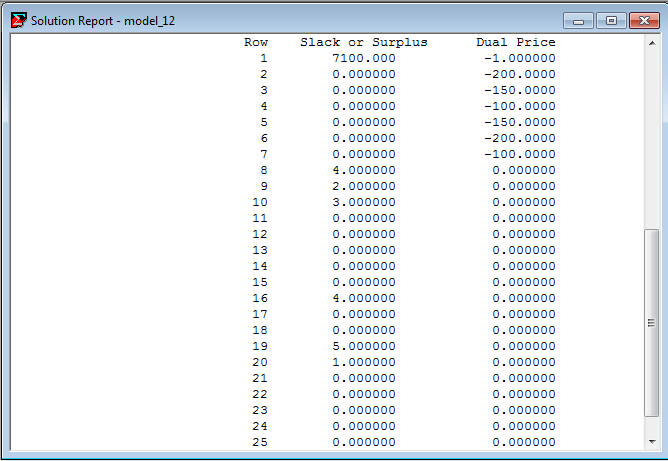
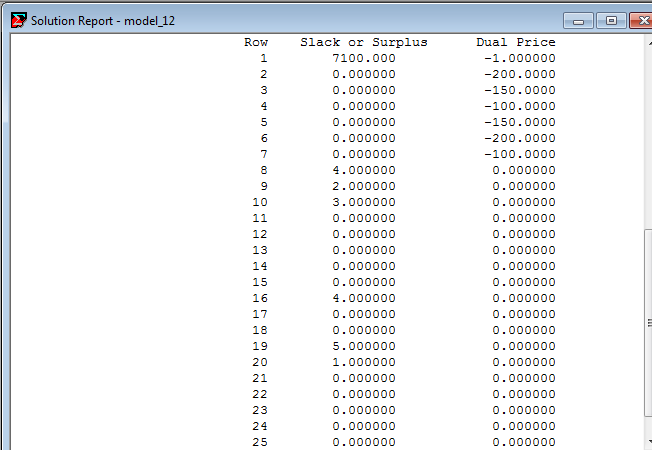
Screenshot_d ex 12 re-sized.

Changed region(s): [[0.0, 0.0, 1.0, 1.0]]

diff --git a/slides/ex12/07_solution.tex b/slides/ex12/07_solution.tex
@@ -21,7 +21,7 @@
 
 \begin{frame}{Example 12 - Solution(4)}
 \begin{figure}
-    \includegraphics[width=300px]{slides/ex12/screenshot_d.png}
+    \includegraphics[width=290px]{slides/ex12/screenshot_d.png}
     \caption{Example 12 model and solution in Lingo Software.}
 \end{figure}
 \end{frame}
